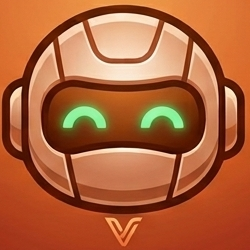
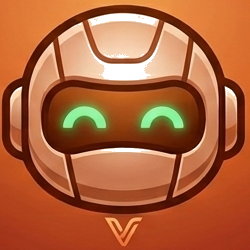
Atualizando arquivos do projeto

diff --git a/www/core/brandTheme.js b/www/core/brandTheme.js
@@ -81,7 +81,7 @@ function ensureThemeStyles() {
 
     const rules = [
         '.brand-logo-trigger{width:2.5rem;height:2.5rem;min-width:2.5rem;aspect-ratio:1;border-radius:50%;overflow:hidden;background-color:transparent!important}',
-        '.brand-mascot-image{display:block;flex:none;object-fit:contain}',
+        '.brand-logo-trigger img,.brand-mascot-image{display:block;flex:none;object-fit:contain;background-color:transparent!important;padding:0;border-radius:0}',
         '.brand-theme-option{border-color:var(--preview-border);background-color:var(--preview-surface);box-shadow:0 8px 24px -18px var(--preview-glow);transition:background-color 180ms ease,border-color 180ms ease,box-shadow 180ms ease,transform 180ms ease}',
         '.brand-theme-option:hover{border-color:var(--preview-primary);box-shadow:0 10px 26px -14px var(--preview-glow);transform:translateY(-1px)}',
         '.brand-theme-option[aria-pressed="true"]{border-color:var(--preview-primary);box-shadow:0 0 0 1px var(--preview-primary),0 10px 28px -14px var(--preview-glow)}',
